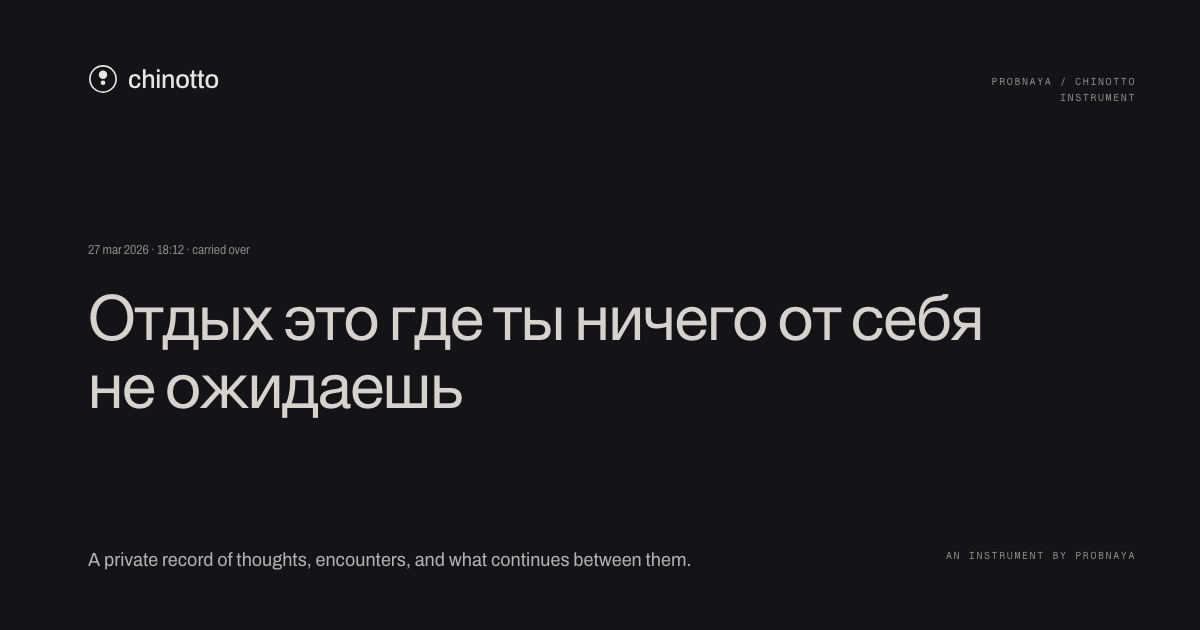
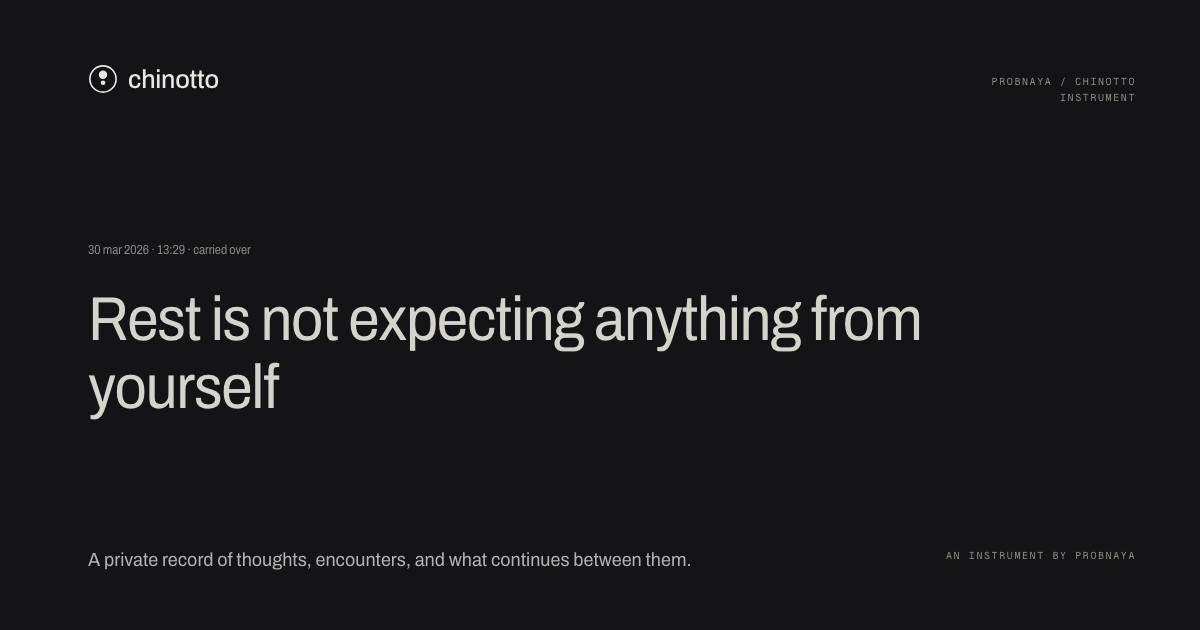
fix(og): make the og-image card fully English
The card's second line was the Russian specimen fragment, out of place
in an otherwise-English social preview. Swap it for the real English
continuation already shown on the live page (30 mar, "Rest is not
expecting anything from yourself") rather than inventing a translation.
Update the shared og:image:alt text on every page to match the new
card content.

Changed region(s): [[0.0617, 0.4524, 0.8325, 0.6635], [0.0925, 0.3921, 0.2158, 0.4222]]

diff --git a/scripts/og-template.html b/scripts/og-template.html
@@ -62,8 +62,8 @@
       </header>
 
       <div class="card__record">
-        <p class="stamp"><span>27 mar 2026 · 18:12 · carried over</span></p>
-        <p class="card__anchor" lang="ru">Отдых это где ты ничего от себя не ожидаешь</p>
+        <p class="stamp"><span>30 mar 2026 · 13:29 · carried over</span></p>
+        <p class="card__anchor">Rest is not expecting anything from yourself</p>
       </div>
 
       <div class="card__foot">

diff --git a/manifesto.html b/manifesto.html
@@ -32,7 +32,7 @@
     <meta property="og:image:height" content="630" />
     <meta
       property="og:image:alt"
-      content="Chinotto — a record left on 27 mar 2026, carried over and still unmoved."
+      content="Chinotto — a record carried over on 30 mar 2026, still unmoved."
     />
     <meta name="twitter:card" content="summary_large_image" />
     <meta name="twitter:title" content="Chinotto — the manifesto" />

diff --git a/privacy.html b/privacy.html
@@ -33,7 +33,7 @@
     <meta property="og:image:height" content="630" />
     <meta
       property="og:image:alt"
-      content="Chinotto — a record left on 27 mar 2026, carried over and still unmoved."
+      content="Chinotto — a record carried over on 30 mar 2026, still unmoved."
     />
     <meta name="twitter:card" content="summary_large_image" />
     <meta name="twitter:title" content="Chinotto — privacy" />

diff --git a/support.html b/support.html
@@ -33,7 +33,7 @@
     <meta property="og:image:height" content="630" />
     <meta
       property="og:image:alt"
-      content="Chinotto — a record left on 27 mar 2026, carried over and still unmoved."
+      content="Chinotto — a record carried over on 30 mar 2026, still unmoved."
     />
     <meta name="twitter:card" content="summary_large_image" />
     <meta name="twitter:title" content="Chinotto — support" />

diff --git a/index.html b/index.html
@@ -26,7 +26,7 @@
     <meta property="og:image:height" content="630" />
     <meta
       property="og:image:alt"
-      content="Chinotto — a record left on 27 mar 2026, carried over and still unmoved."
+      content="Chinotto — a record carried over on 30 mar 2026, still unmoved."
     />
 
     <meta name="twitter:card" content="summary_large_image" />
